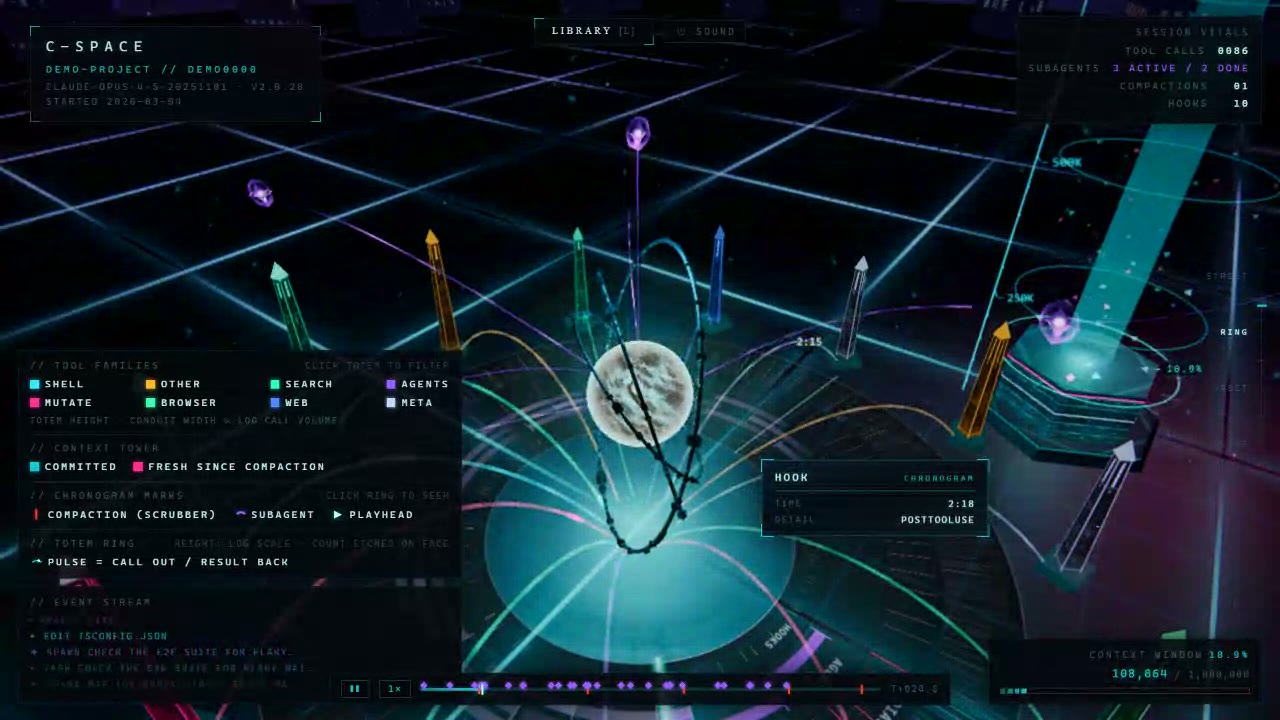
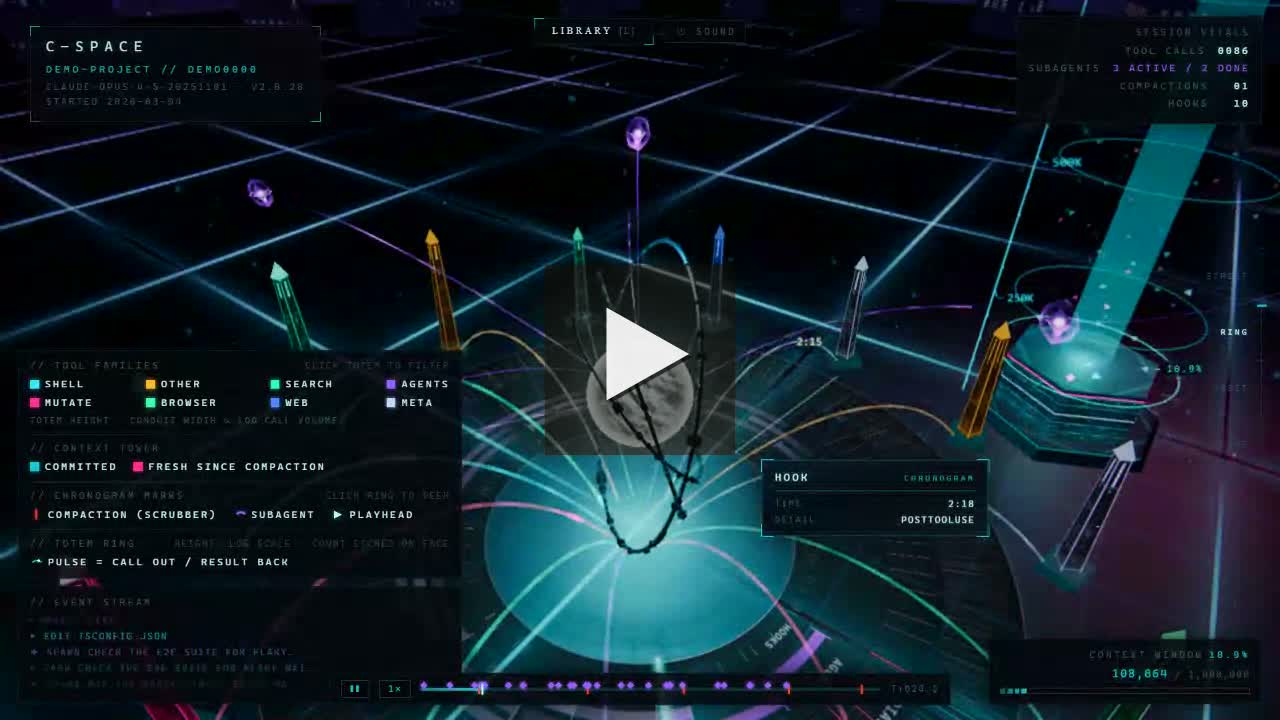
Give the video poster a play badge
The README's tour link was an ordinary still, so it read as a third
screenshot rather than something clickable. Adds a centered play badge so
the click affordance is obvious.

Kept as a poster link rather than an inline player deliberately: GitHub's
inline player needs a user-attachments asset URL, and those are scoped to
the uploading user's session until the containing comment is saved — an
unsubmitted upload renders for its author and 404s for everyone else,
which would have shipped a broken embed. Verified anonymously three ways
(curl, curl with a browser UA, and a clean browser profile): GitHub's own
404 page. The poster link works for every visitor, logged in or not.

Changed region(s): [[0.4062, 0.3667, 0.5938, 0.6417]]

diff --git a/README.md b/README.md
@@ -6,7 +6,7 @@
 
 ### 35-second tour
 
-[![Watch the C-Space tour — click to play](docs/img/cspace-poster.jpeg)](docs/video/cspace-demo.mp4)
+[![Watch the 35-second C-Space tour (click to play)](docs/img/cspace-poster.jpeg)](docs/video/cspace-demo.mp4)
 
 <sub>▶ **[Click for the 35s tour](docs/video/cspace-demo.mp4)** — establishing
 drift, orbit down to the tool ring, a hover card, an in-place session swap from
